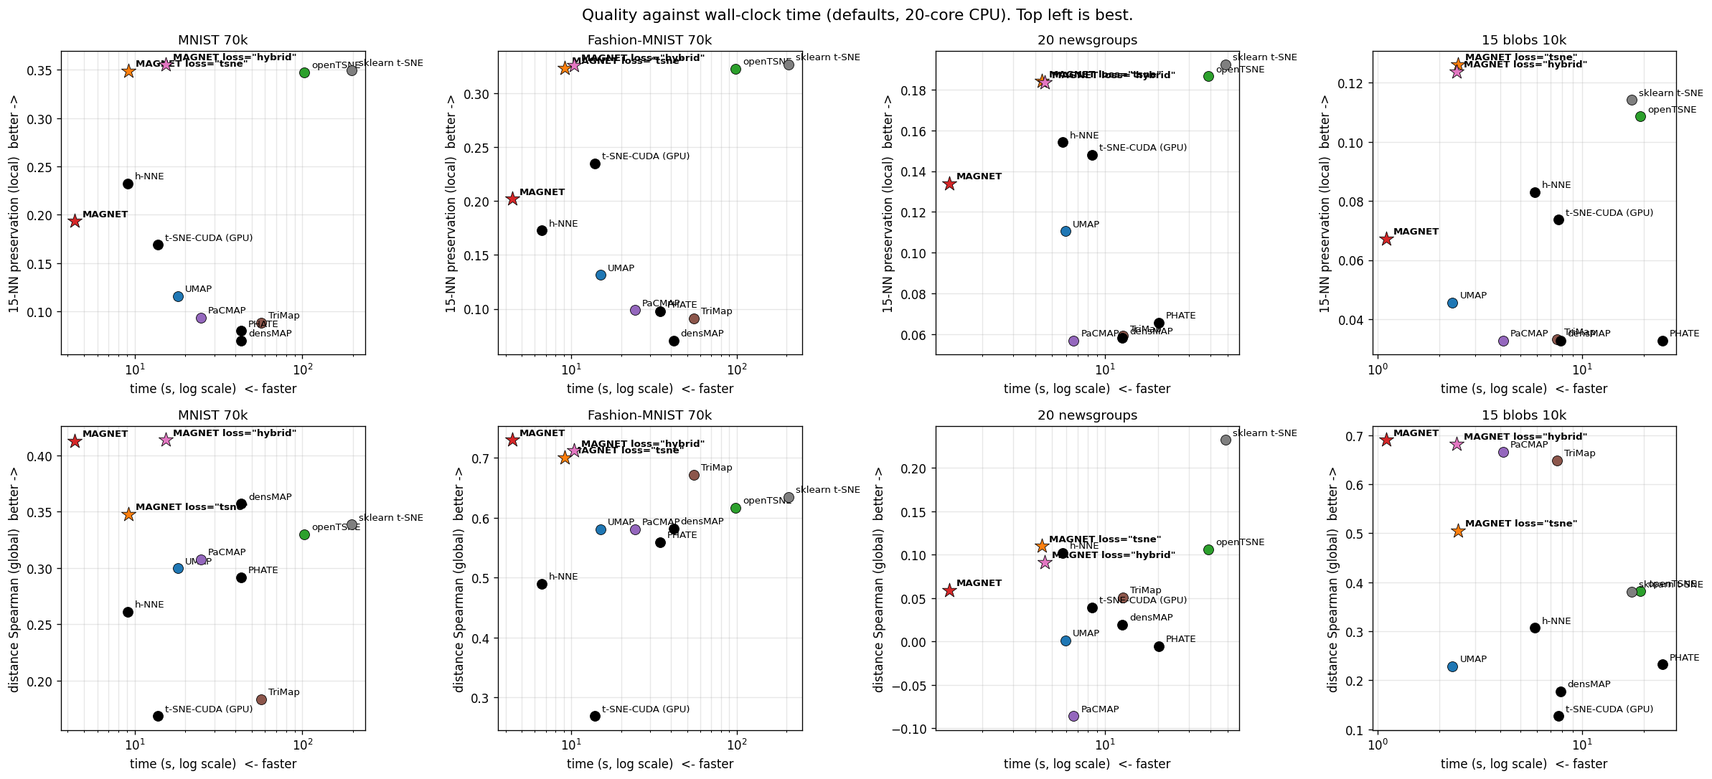
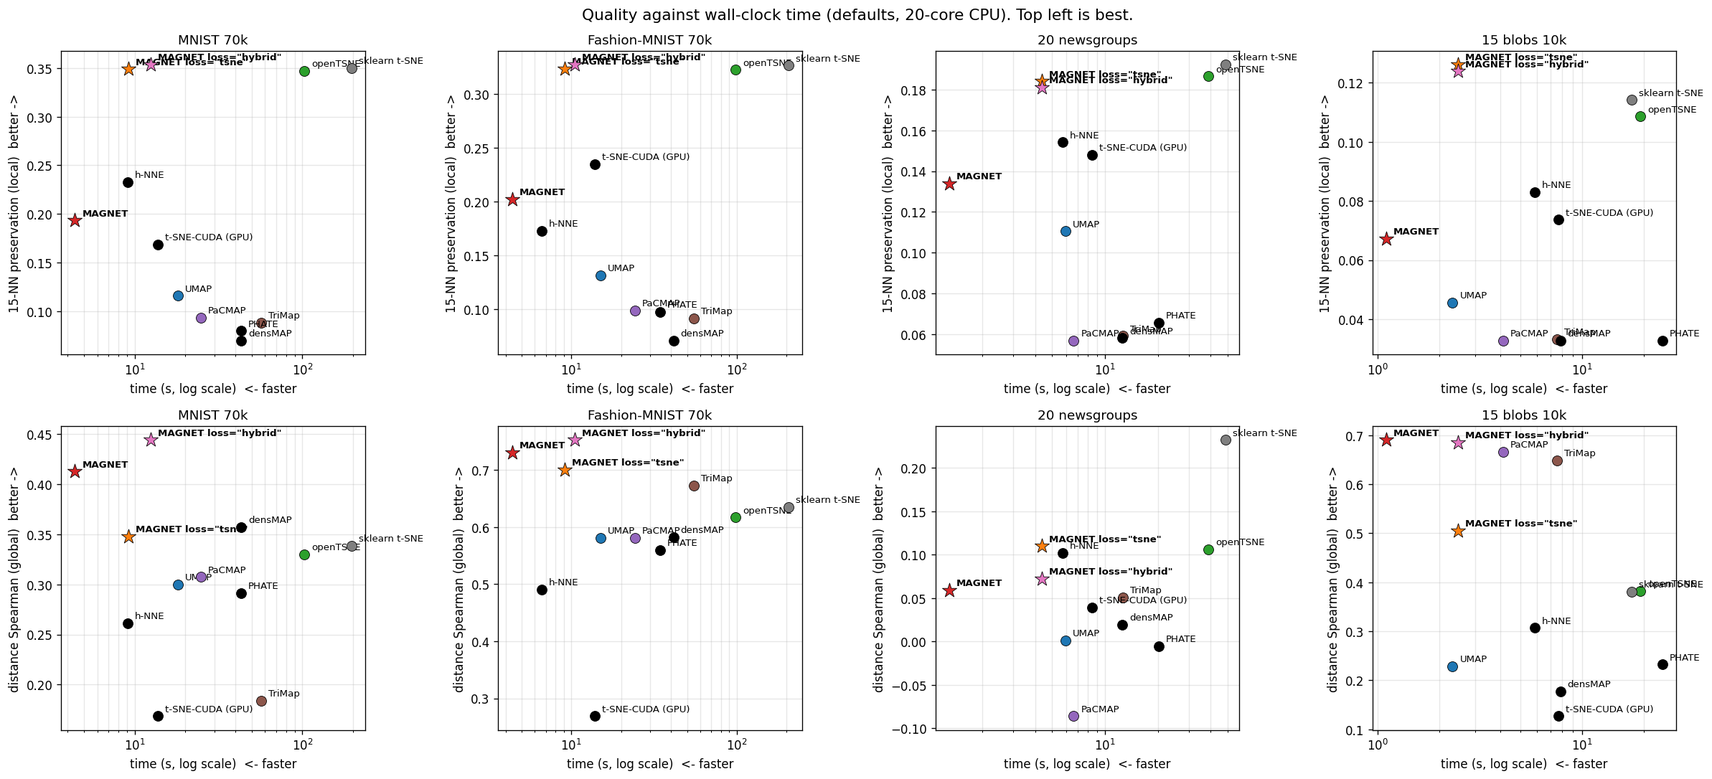
loss='hybrid': SGD pass tuned for the global structure (mid_weight 0.5 by default under hybrid; constructor default None resolved per mode, mid_weight_): MNIST 70k 15-NN 0.353 with Spearman 0.444 in 12.5 s, Fashion 0.328 / 0.752; exact-pass knobs within seed noise, shorter SGD pass negative (k8, k9)

diff --git a/magnet/__init__.py b/magnet/__init__.py
@@ -127,7 +127,10 @@ class MAGNET:
     walk_len, mid_weight, mid_rate, mid_phase : mid-range attraction. With probability mid_rate a
         positive sample (u, v) is followed by a random walk of walk_len steps from v, ending at w,
         and u is pulled towards w with a spring of stiffness mid_weight (annealed to zero over the
-        first mid_phase fraction of the epochs). Set mid_weight=0 to disable.
+        first mid_phase fraction of the epochs). Set mid_weight=0 to disable.  None (default) means 0.1,
+        or 0.5 under loss="hybrid": there the SGD pass only has to place the clusters, and the stiffer
+        spring buys +0.02 to +0.04 distance Spearman at unchanged 15-NN preservation. The value used
+        is stored in mid_weight_.
     mid_source : where the mid-range partners come from: "data" (PaCMAP-style mid-near pairs: the
         second closest of 6 random rows in the data space, n_mid_pairs per point; +30% distance
         correlation on MNIST for -3% 15-NN preservation), "walk" (short random walks on the graph)
@@ -170,7 +173,7 @@ class MAGNET:
                  n_epochs=None, learning_rate=1.0, negative_sample_rate=5, repulsion_strength=2.0,
                  kernel="power", kernel_b=0.6, repulsion_b=1.0, fft_interp=3, fft_box=1.0, tsne_early=None, loss="umap", exaggeration=1.0,
                  late_exaggeration=1.0, late_phase=0.2, tsne_dof=1.0, optimizer="sgd", clip="coord", beta1=0.9, beta2=0.999,
-                 walk_len=4, mid_weight=0.1, mid_rate=0.25, mid_phase=0.5, mid_scale="fixed", mid_source="auto",
+                 walk_len=4, mid_weight=None, mid_rate=0.25, mid_phase=0.5, mid_scale="fixed", mid_source="auto",
                  n_mid_pairs=5, mid_jump=0.5,
                  component_placement="centroid",
                  init="auto", pca=None, knn="nndescent", ef_construction=80, M=16, ef=None,
@@ -375,17 +378,22 @@ class MAGNET:
         Y = self._initial_embedding(P, data_matrix, rng)
 
         t = time.time()
+        # mid-range spring: 0.1 by default; 0.5 under loss="hybrid", whose SGD pass only has to place the
+        # clusters (the exact pass rewrites the local structure): +0.04 distance Spearman on MNIST, +0.03 on
+        # Fashion-MNIST, +0.02 on news20 and blobs at unchanged 15-NN preservation (benchmarks/theory/k8_mid_sweep.py)
+        mid_w = float(self.mid_weight) if self.mid_weight is not None else (0.5 if self.loss == "hybrid" else 0.1)
+        self.mid_weight_ = mid_w
         if self.loss == "umap_exact":
             if self.n_components != 2:
                 raise ValueError("loss='umap_exact' (FFT repulsion) is implemented for n_components=2 only")
             from .tsne import optimize_umap_exact
             n_iter = self.n_epochs if isinstance(self.n_epochs, (int, np.integer)) else 300
             pairs = getattr(self, "_mid_pairs_", None)
-            if self.mid_source in ("data", "auto") and hasattr(self, "_prepared_") and self.mid_weight > 0 and pairs is None:
+            if self.mid_source in ("data", "auto") and hasattr(self, "_prepared_") and mid_w > 0 and pairs is None:
                 from .roles import mid_near_pairs
                 pairs = mid_near_pairs(self._prepared_, self.n_mid_pairs, random_state=self.random_state or 0, n_threads=self.n_threads)
             Y = optimize_umap_exact(P, Y, self.a_, self.b_, n_iter=int(n_iter), rep_weight=float(self.repulsion_strength),
-                                    mid_pairs=pairs, mid_weight=float(self.mid_weight), mid_phase=float(self.mid_phase),
+                                    mid_pairs=pairs, mid_weight=float(mid_w), mid_phase=float(self.mid_phase),
                                     n_threads=self.n_threads, verbose=self.verbose)
             self.n_epochs_ = int(n_iter)
             head = np.zeros(0, dtype=np.int32)
@@ -400,14 +408,14 @@ class MAGNET:
                 Y = Y / max(float(Y[:, 0].std()), 1e-12) * float(self.tsne_init_scale)
             early = self.tsne_early if self.tsne_early is not None else min(250, int(n_iter) // 3)
             pairs = None
-            if self.mid_source in ("data", "auto") and hasattr(self, "_prepared_") and self.mid_weight > 0:
+            if self.mid_source in ("data", "auto") and hasattr(self, "_prepared_") and mid_w > 0:
                 from .roles import mid_near_pairs
                 pairs = mid_near_pairs(self._prepared_, self.n_mid_pairs, random_state=self.random_state or 0,
                                        n_threads=self.n_threads)
             Y = optimize_tsne(P, Y, n_iter=int(n_iter), early_iter=int(early),
                               exaggeration=float(self.exaggeration), learning_rate=self.tsne_learning_rate,
                               n_interp=int(self.fft_interp), box_width=float(self.fft_box),
-                              n_threads=self.n_threads, mid_pairs=pairs, mid_weight=3.0 * float(self.mid_weight),
+                              n_threads=self.n_threads, mid_pairs=pairs, mid_weight=3.0 * float(mid_w),
                               mid_phase=float(self.mid_phase), dof=float(self.tsne_dof), verbose=self.verbose,
                               far_weight=float(self.tsne_far[0]), far_r0=float(self.tsne_far[1]),
                               mid_form=str(self.tsne_mid[0]), mid_c=float(self.tsne_mid[1]))
@@ -418,13 +426,13 @@ class MAGNET:
             head, tail, epochs_per_sample = self._edge_schedule(P, n_epochs)
             self._mid_pairs_ = None
             self._jump_graph_ = None
-            if self.mid_source == "spectral" and self.mid_weight > 0:
+            if self.mid_source == "spectral" and mid_w > 0:
                 # graphs: mid-near pairs measured in a spectral (diffusion) embedding of the graph
                 from .roles import mid_near_pairs
                 S = spectral_init(P, 8, self.random_state, n_threads=self.n_threads)
                 self._mid_pairs_ = mid_near_pairs(np.ascontiguousarray(S, dtype=np.float32), self.n_mid_pairs,
                                                   random_state=self.random_state or 0, n_threads=self.n_threads)
-            if self.mid_source in ("data", "auto", "hybrid") and hasattr(self, "_prepared_") and self.mid_weight > 0:
+            if self.mid_source in ("data", "auto", "hybrid") and hasattr(self, "_prepared_") and mid_w > 0:
                 from .roles import mid_near_pairs
                 self._mid_pairs_ = mid_near_pairs(self._prepared_, self.n_mid_pairs, random_state=self.random_state or 0,
                                                   n_threads=self.n_threads)
@@ -435,7 +443,7 @@ class MAGNET:
                     J.sort_indices()
                     self._jump_graph_ = J
             self._optimize(Y, head, tail, epochs_per_sample, P, n_epochs, n_fixed=0, seed=seed,
-                           mid_weight=self.mid_weight)
+                           mid_weight=mid_w)
             if self.loss == "hybrid":
                 # second pass: the exact (FFT) repulsion refines the local structure of the SGD layout. The layout
                 # is first brought to the exact mode's own scale (31 x sqrt(n / 70000)): started from its natural

diff --git a/benchmarks/theory/k8_mid_sweep.py b/benchmarks/theory/k8_mid_sweep.py
@@ -1,0 +1,43 @@
+"""k8: parametrisation of loss="hybrid" on MNIST 70k. One SGD pass per setting (mid_weight, epochs, seed), then the
+exact pass with one knob moved at a time (scale, learning rate, iterations, dof, exaggeration). Usage:
+python benchmarks/theory/k8_mid_sweep.py OUT.jsonl [round]  (round 1: exact-pass knobs; 2: mid_weight x epochs x seed).
+Run from the repository root. Results in k8_mid_sweep.log."""
+import sys, os, time, json
+HERE = os.path.dirname(os.path.abspath(__file__)); B = os.path.dirname(HERE); sys.path.insert(0, os.path.dirname(B)); sys.path.insert(0, B)
+import numpy as np
+from datasets import LOADERS
+from metrics import evaluate
+from magnet import MAGNET
+from magnet.tsne import optimize_tsne
+
+data, labels, name = LOADERS["mnist"](70000)
+n = len(data)
+out = open(sys.argv[1], "a")
+
+def log(row):
+    print(json.dumps(row), flush=True); out.write(json.dumps(row) + "\n"); out.flush()
+
+def exact(P, Y0, scale=31.0, lr=None, iters=300, dof=1.0, exag=1.0):
+    Y = Y0.copy(); Y -= Y.mean(0); Y *= scale * np.sqrt(n / 70000.0) / Y[:, 0].std()
+    t = time.time()
+    Y = optimize_tsne(P, Y, n_iter=iters, early_iter=0, exaggeration=exag, learning_rate=lr, n_threads=-1, dof=dof)
+    return Y, time.time() - t
+
+ROUND = int(sys.argv[2]) if len(sys.argv) > 2 else 1
+sgd_cfgs = [("default", {}), ("mid0.3", {"mid_weight": 0.3}), ("mid1.0", {"mid_weight": 1.0}), ("mid0.3_e100", {"mid_weight": 0.3, "n_epochs": 100})]
+if ROUND == 2:
+    sgd_cfgs = [("mid1.0_e100", {"mid_weight": 1.0, "n_epochs": 100}), ("mid1.0_e150", {"mid_weight": 1.0, "n_epochs": 150}), ("mid0.5", {"mid_weight": 0.5}), ("mid2.0", {"mid_weight": 2.0}), ("mid1.0_seed1", {"mid_weight": 1.0, "random_state": 1}), ("default_seed1", {"random_state": 1})]
+variants = [("base", {}), ("s22", {"scale": 22.0}), ("s40", {"scale": 40.0}), ("lr/2", {"lr": n / 24}), ("lr*2", {"lr": n / 6}),
+            ("it450", {"iters": 450}), ("dof0.8", {"dof": 0.8}), ("exag1.2", {"exag": 1.2})]
+for sname, skw in sgd_cfgs:
+    t = time.time(); m = MAGNET(random_state=0, **skw); Y0 = m.fit_transform(data); t_sgd = time.time() - t
+    r = evaluate(data, Y0, labels, cache_key=name)
+    log(dict(sgd=sname, variant="sgd_only", t=round(t_sgd, 1), knn=round(r["knn15_preservation"], 3), trust=round(r["trustworthiness"], 3), sp=round(r["dist_spearman"], 3), tri=round(r["triplet_acc"], 3)))
+    if ROUND == 1:
+        vs = variants if sname in ("default", "mid1.0") else variants[:1] + variants[5:6]
+    else:
+        vs = variants[:1] + ([variants[2]] if "e1" in sname else [])
+    for vname, vkw in vs:
+        Y, t_ex = exact(m.graph_, Y0, **vkw)
+        r = evaluate(data, Y, labels, cache_key=name)
+        log(dict(sgd=sname, variant=vname, t=round(t_sgd + t_ex, 1), knn=round(r["knn15_preservation"], 3), trust=round(r["trustworthiness"], 3), sp=round(r["dist_spearman"], 3), tri=round(r["triplet_acc"], 3)))

diff --git a/benchmarks/theory/k9_mid_validate.py b/benchmarks/theory/k9_mid_validate.py
@@ -1,0 +1,17 @@
+"""k9: mid_weight of the SGD pass under loss="hybrid" on Fashion-MNIST 70k, 20 newsgroups and blobs (0.1 / 0.5 / 1.0).
+Usage: python benchmarks/theory/k9_mid_validate.py OUT.jsonl ; results in k9_mid_validate.log."""
+import sys, os, time, json
+HERE = os.path.dirname(os.path.abspath(__file__)); B = os.path.dirname(HERE); sys.path.insert(0, os.path.dirname(B)); sys.path.insert(0, B)
+import numpy as np
+from datasets import LOADERS
+from metrics import evaluate
+from magnet import MAGNET
+out = open(sys.argv[1], "a")
+for ds in ["fmnist", "news20", "blobs"]:
+    data, labels, name = LOADERS[ds](70000) if ds == "fmnist" else LOADERS[ds]()
+    for w in [0.1, 0.5, 1.0]:
+        kw = {"metric": "cosine"} if ds == "news20" else {}
+        t = time.time(); Y = MAGNET(loss="hybrid", mid_weight=w, random_state=0, **kw).fit_transform(data); dt = time.time() - t
+        r = evaluate(data, Y, labels, cache_key=name)
+        row = dict(ds=ds, mid=w, t=round(dt, 1), knn=round(r["knn15_preservation"], 3), trust=round(r["trustworthiness"], 3), sp=round(r["dist_spearman"], 3), tri=round(r["triplet_acc"], 3))
+        print(json.dumps(row), flush=True); out.write(json.dumps(row) + "\n"); out.flush()

diff --git a/tests/test_magnet.py b/tests/test_magnet.py
@@ -366,7 +366,10 @@ def test_hybrid_loss():
     M = MAGNET(loss="hybrid", hybrid_iter=60, random_state=0, n_threads=1).fit(X)
     Y = M.embedding_
     assert Y.shape == (3000, 2) and np.isfinite(Y).all()
-    Y_sgd = MAGNET(random_state=0, n_threads=1).fit_transform(X)
+    assert M.mid_weight_ == 0.5                       # the SGD pass of the hybrid is tuned for the global structure
+    M_sgd = MAGNET(random_state=0, n_threads=1).fit(X)
+    Y_sgd = M_sgd.embedding_
+    assert M_sgd.mid_weight_ == 0.1 and MAGNET(mid_weight=0.3).mid_weight == 0.3
     assert not np.allclose(Y, Y_sgd)
     rule = 31.0 * np.sqrt(3000 / 70000.0)             # the exact pass works at the exact mode's scale
     assert 0.5 * rule < Y[:, 0].std() < 2.0 * rule

diff --git a/README.md b/README.md
@@ -55,12 +55,14 @@ Hamprecht 2021). MAGNET exposes this directly:
 |---|---|---|---|
 | `loss="umap"` | sampled (5 random points per positive sample) | UMAP-like, with the global structure of PaCMAP | speed, 3-D, graphs, millions of points |
 | `loss="tsne"` | exact, all pairs, FFT-accelerated (2-D) | t-SNE-like, finest local structure | best neighbourhood preservation |
-| `loss="hybrid"` | sampled, then exact for 300 iterations at the exact mode's scale | the global structure of the first with the local structure of the second | the best 2-D layout MAGNET makes (MNIST 70k: 15-NN kept 0.355, distance Spearman 0.414, 15 s) |
+| `loss="hybrid"` | sampled, then exact for 300 iterations at the exact mode's scale | the global structure of the first with the local structure of the second | the best 2-D layout MAGNET makes (MNIST 70k: 15-NN kept 0.353, distance Spearman 0.444, 12.5 s) |
 | `loss="tsne", exaggeration=4` | exact | UMAP-like again | the two regimes really are one spectrum |
 
 `repulsion_strength` (default 2) and `exaggeration` move along the spectrum within each mode, and
 `mid_weight` trades local for global structure within the SGD mode (MNIST 70k, 0 / 0.1 / 0.3 / 1.0:
-15-NN kept 0.206 / 0.193 / 0.187 / 0.168, distance Spearman 0.285 / 0.413 / 0.427 / 0.478). The two
+15-NN kept 0.206 / 0.193 / 0.187 / 0.168, distance Spearman 0.285 / 0.413 / 0.427 / 0.478). Under
+`loss="hybrid"` the SGD pass only has to place the clusters, so it runs at `mid_weight=0.5`: its
+local cost is erased by the exact pass, its global gain is kept (+0.03 to +0.04 Spearman). The two
 modes' strengths do not blend inside one loss (a constant far-field repulsion, a bounded mid-range
 term or a longer schedule in the exact mode each cost local structure before buying any global, and
 the exaggeration knob trades local for compactness, not for global; `docs/kernel_exponents.md`,
@@ -214,7 +216,7 @@ sits below the CPU t-SNEs on neighbourhood preservation.
 | MAGNET, `repulsion_b=None` (coupled kernel, UMAP's compact look: silhouette 0.51 against 0.52 for UMAP and 0.40 for the default) | 5.5 s | 0.190 | 0.958 | 0.405 | 0.641 | 0.966 |
 | MAGNET, `late_exaggeration=1.5` (compact preset, silhouette 0.51) | 4.7 s | 0.181 | 0.956 | 0.386 | 0.637 | 0.967 |
 | **MAGNET `loss="tsne"`** | 9.2 s | 0.349 | 0.966 | 0.348 | 0.627 | 0.966 |
-| **MAGNET `loss="hybrid"`** | 15.3 s | **0.355** | 0.962 | **0.414** | **0.645** | 0.965 |
+| **MAGNET `loss="hybrid"`** | 12.5 s | **0.353** | 0.961 | **0.444** | **0.656** | 0.960 |
 | UMAP 0.5.11 | 18.2 s | 0.116 | 0.951 | 0.300 | 0.607 | 0.967 |
 | densMAP (umap-learn 0.5.11) | 43.2 s | 0.070 | 0.923 | 0.357 | 0.621 | 0.956 |
 | openTSNE 1.0.4 | 102.5 s | 0.347 | **0.968** | 0.330 | 0.619 | 0.965 |
@@ -226,10 +228,14 @@ sits below the CPU t-SNEs on neighbourhood preservation.
 | t-SNE-CUDA 3.0.1 (GPU) | 13.8 s | 0.169 | 0.967 | 0.169 | 0.567 | 0.957 |
 
 `loss="hybrid"` is the first row of this table to lead both the local and the global columns at once:
-15-NN kept equal to the best t-SNE (0.355 against 0.350), distance correlation equal to the SGD mode
-(0.414 against 0.413), 13 times faster than scikit-learn's t-SNE. Fashion-MNIST: 0.326 / 0.712
-(t-SNE 0.327 / 0.634, SGD 0.202 / 0.730); 20 newsgroups 0.183 / 0.092 (t-SNE 0.192 / 0.232, which
-keeps the global lead there); blobs 0.124 / 0.682 (t-SNE 0.114 / 0.381, SGD 0.067 / 0.690).
+15-NN kept equal to the best t-SNE (0.353 against 0.350), distance correlation above the SGD mode
+(0.444 against 0.413), 16 times faster than scikit-learn's t-SNE. Fashion-MNIST: 0.328 / 0.752
+(t-SNE 0.327 / 0.634, SGD 0.202 / 0.730); 20 newsgroups 0.181 / 0.073 (t-SNE 0.192 / 0.232, which
+keeps the global lead there; the global column of that set moves by 0.02 between seeds); blobs
+0.124 / 0.684 (t-SNE 0.114 / 0.381, SGD 0.067 / 0.690). The exact pass refines the SGD layout, it
+does not repair one: the SGD pass must run its full schedule (100 epochs: 15-NN 0.276), and the knobs
+of the exact pass (scale, learning rate, iterations, dof, exaggeration) move the result by at most
+the seed noise (`docs/kernel_exponents.md`, section 6.1).
 h-NNE is the one fast method that beats the default MAGNET on neighbourhood preservation (0.233
 against 0.193 on MNIST, 0.154 against 0.134 on 20 newsgroups, the other way round on Fashion-MNIST,
 0.173 against 0.202); it pays for it on every other column (trustworthiness 0.940, distance
@@ -288,7 +294,7 @@ Any networkx graph or sparse adjacency matrix is laid out directly, in linear ti
 | `samples_per_node` | 5 | attractive samples per node and per epoch |
 | `negative_sample_rate` | 5 | negatives per positive sample |
 | `mid_source`, `n_mid_pairs`, `mid_jump` | `"auto"`, 5, 0.5 | mid-range partners from the data (PaCMAP-style pairs), from random walks on the graph, or `"hybrid"` walks on both layers |
-| `walk_len`, `mid_weight`, `mid_rate`, `mid_phase` | 4, 0.1, 0.25, 0.5 | strength and schedule of the mid-range attraction (`mid_weight=0` disables) |
+| `walk_len`, `mid_weight`, `mid_rate`, `mid_phase` | 4, None (0.1; 0.5 under `loss="hybrid"`), 0.25, 0.5 | strength and schedule of the mid-range attraction (`mid_weight=0` disables) |
 | `init` | `"auto"` | PCA for `loss="tsne"` on data, spectral otherwise; or `"spectral"`, `"pca"`, `"random"`, an array |
 | `knn` | `"nndescent"` | or `"hnsw"` (needs hnswlib) |
 | `pca` | None | project wide data to this many components before the neighbour search |

diff --git a/docs/kernel_exponents.md b/docs/kernel_exponents.md
@@ -256,6 +256,39 @@ The fade the question asked for exists, then, but across scales of the optimiser
 the loss: the sampled pass owns the far field, the exact pass owns the near field, and the hand-over
 is the init at the right scale.
 
+### 6.1 Parametrisation of the hybrid (`k8_mid_sweep.py`, `k9_mid_validate.py`)
+
+Since the exact pass rewrites the local structure, the SGD pass no longer has to protect it: it can
+be tuned for the global arrangement alone. MNIST 70k, seed 0, exact pass at scale 31, lr n/12,
+300 iterations (seed noise, measured on two seeds: 0.003 on both columns):
+
+| SGD pass | SGD alone, 15-NN / Spearman | after the exact pass, 15-NN / Spearman | time |
+|---|---|---|---|
+| `mid_weight=0.1` (SGD default) | 0.193 / 0.413 | 0.356 / 0.410 | 11.0 s |
+| `mid_weight=0.3` | 0.187 / 0.430 | 0.354 / 0.423 | 11.6 s |
+| `mid_weight=0.5` | 0.176 / 0.455 | 0.355 / 0.449 | 12.3 s |
+| `mid_weight=1.0` | 0.171 / 0.474 | 0.351 / 0.452 | 10.8 s |
+| `mid_weight=2.0` | 0.154 / 0.487 | 0.350 / 0.453 | 10.7 s |
+| `mid_weight=1.0`, 150 epochs | 0.127 / 0.464 | 0.336 / 0.445 | 11.9 s |
+| `mid_weight=1.0`, 100 epochs | 0.066 / 0.399 | 0.276 / 0.401 | 11.0 s |
+
+The local cost of the stiffer spring (15-NN 0.193 down to 0.154) is erased by the exact pass, its
+global gain (+0.04) is kept. Saturation at 0.5-1.0. A shorter SGD pass does not work: the exact pass
+refines a layout, it does not repair one (100 epochs: 15-NN 0.276, trustworthiness 0.71), so the time
+of the hybrid stays SGD plus exact. On the other data sets (`k9`, hybrid at `mid_weight` 0.1 / 0.5 /
+1.0): Fashion-MNIST 15-NN 0.328 / 0.328 / 0.331, Spearman 0.716 / 0.750 / 0.770; 20 newsgroups
+0.183 / 0.182 / 0.180, 0.073 / 0.094 / 0.095; blobs 0.123 / 0.124 / 0.124, 0.696 / 0.713 / 0.673.
+0.5 is never below 0.1 on any column of any data set, 1.0 loses 0.04 on the blobs: the hybrid's
+default is `mid_weight=0.5` (the SGD mode keeps 0.1; the constructor default is None, resolved per
+mode, the value used is in `mid_weight_`).
+
+The knobs of the exact pass move the result by at most the seed noise, or hurt (`mid_weight=1.0`
+SGD pass; 15-NN / Spearman / time): scale 22: 0.344 / 0.443 / 8.9 s; scale 40: 0.356 / 0.459 /
+16.2 s; lr n/24: 0.346 / 0.458; lr n/6: 0.356 / 0.446; 450 iterations: 0.357 / 0.443 / 17.0 s;
+dof 0.8: 0.343 / 0.447; exaggeration 1.2: 0.343 / 0.448. Scale 40 and 450 iterations buy 0.005 of
+15-NN for 5-6 s; dof below 1 and late exaggeration cost local structure, as in the exact mode alone.
+The hybrid has one knob worth turning, and it is in the SGD pass.
+
 ## Scripts (`benchmarks/theory/`)
 
 `e1_force_spectrum.py` (per-octave repulsive force on MAGNET's own embeddings), `e1b_powerlaw.py`
@@ -263,7 +296,7 @@ is the init at the right scale.
 data set), `e3_huber.py` (needs the research build with the Huber kernel; the C++ and Python patch is
 described in the script's docstring), `e4_oracle_local.py`, `e5_law.py`, `e6_estimator.py`,
 `e7_embedding_estimator.py` (two-phase version, superseded), `g1_gate.py` (crowding distribution on
-real data), `g2_adaptive.py`, `g3_mindeg.py`, `h1_hubs.py`, `h2_degree.py` (the text question), `k1_hybrid.py` to `k7_hybrid_general.py` and `run_hybrid_rows.py` (section 6); the `.log` files are the runs quoted here (4 threads, 2-3
+real data), `g2_adaptive.py`, `g3_mindeg.py`, `h1_hubs.py`, `h2_degree.py` (the text question), `k1_hybrid.py` to `k7_hybrid_general.py`, `k8_mid_sweep.py` (parametrisation of the hybrid on MNIST: mid_weight, SGD epochs, seed; exact-pass scale, lr, iterations, dof, exaggeration), `k9_mid_validate.py` (mid_weight of the hybrid on Fashion-MNIST, 20 newsgroups, blobs) and `run_hybrid_rows.py` (section 6); the `.log` files are the runs quoted here (4 threads, 2-3
 seeds). The e3 / e4 / e6 / e7 scripts take the package directory and the repository as arguments; g1 and
 g2 take the repository and a data directory holding `coil20/coil-20-proc/*.png` (Columbia CAVE) and
 `paul15/paul15.h5` (falexwolf.de/data); Cora and the airport graphs are read from local copies.

diff --git a/benchmarks/BENCHMARK.md b/benchmarks/BENCHMARK.md
@@ -10,7 +10,7 @@ Local structure: 15-NN preservation (fraction of each point's 15 nearest neighbo
 |---|---|---|---|---|---|---|---|
 | MAGNET (SGD, default) | **4.4** | 0.193 | 0.957 | 0.413 | 0.644 | 0.967 | 0.397 |
 | MAGNET (loss="tsne") | 9.2 | 0.349 | 0.966 | 0.348 | 0.627 | 0.966 | 0.347 |
-| MAGNET (loss="hybrid") | 15.3 | **0.355** | 0.962 | **0.414** | **0.645** | 0.965 | 0.329 |
+| MAGNET (loss="hybrid") | 12.5 | **0.353** | 0.961 | **0.444** | **0.656** | 0.960 | 0.203 |
 | UMAP 0.5.11 | 18.2 | 0.116 | 0.951 | 0.300 | 0.607 | 0.967 | 0.520 |
 | densMAP (umap-learn 0.5.11) | 43.2 | 0.070 | 0.923 | 0.357 | 0.621 | 0.956 | 0.438 |
 | openTSNE 1.0.4 | 102.5 | 0.347 | 0.968 | 0.330 | 0.619 | 0.965 | 0.347 |
@@ -25,9 +25,9 @@ Local structure: 15-NN preservation (fraction of each point's 15 nearest neighbo
 
 | method | time (s) | 15-NN pres. | trust. | dist. Spearman | triplet acc. | 10-NN acc. | compactness* |
 |---|---|---|---|---|---|---|---|
-| MAGNET (SGD, default) | **4.4** | 0.202 | 0.980 | **0.730** | **0.787** | 0.800 | 0.141 |
+| MAGNET (SGD, default) | **4.4** | 0.202 | 0.980 | 0.730 | 0.787 | 0.800 | 0.141 |
 | MAGNET (loss="tsne") | 9.1 | 0.324 | 0.981 | 0.700 | 0.775 | 0.815 | 0.101 |
-| MAGNET (loss="hybrid") | 10.3 | 0.326 | 0.981 | 0.712 | 0.778 | 0.815 | 0.116 |
+| MAGNET (loss="hybrid") | 10.5 | **0.328** | 0.979 | **0.752** | **0.799** | 0.814 | 0.106 |
 | UMAP 0.5.11 | 15.0 | 0.131 | 0.972 | 0.581 | 0.730 | 0.772 | 0.195 |
 | densMAP (umap-learn 0.5.11) | 41.4 | 0.070 | 0.954 | 0.582 | 0.729 | 0.756 | 0.193 |
 | openTSNE 1.0.4 | 98.2 | 0.323 | **0.983** | 0.617 | 0.732 | 0.817 | 0.120 |
@@ -35,7 +35,7 @@ Local structure: 15-NN preservation (fraction of each point's 15 nearest neighbo
 | TriMap | 55.0 | 0.091 | 0.965 | 0.672 | 0.772 | 0.750 | 0.177 |
 | PHATE 2.0 | 34.3 | 0.097 | 0.924 | 0.560 | 0.726 | 0.721 | 0.129 |
 | h-NNE | 6.6 | 0.173 | 0.912 | 0.490 | 0.698 | 0.805 | 0.129 |
-| sklearn t-SNE (Barnes-Hut) | 204.8 | **0.327** | 0.983 | 0.634 | 0.740 | **0.818** | 0.126 |
+| sklearn t-SNE (Barnes-Hut) | 204.8 | 0.327 | 0.983 | 0.634 | 0.740 | **0.818** | 0.126 |
 | t-SNE-CUDA 3.0.1 (GPU, RTX 2070) | 13.9 | 0.235 | 0.975 | 0.269 | 0.614 | 0.811 | 0.004 |
 
 ## 20 newsgroups (18.8k x 300 SVD, cosine), 2 seeds
@@ -44,7 +44,7 @@ Local structure: 15-NN preservation (fraction of each point's 15 nearest neighbo
 |---|---|---|---|---|---|---|---|
 | MAGNET (SGD, default) | **1.3** | 0.134 | 0.760 | 0.059 | 0.529 | 0.508 | -0.111 |
 | MAGNET (loss="tsne") | 4.4 | 0.184 | **0.776** | 0.110 | 0.541 | 0.526 | -0.090 |
-| MAGNET (loss="hybrid") | 4.5 | 0.183 | 0.774 | 0.092 | 0.535 | 0.520 | -0.100 |
+| MAGNET (loss="hybrid") | 4.4 | 0.181 | 0.768 | 0.073 | 0.528 | 0.515 | -0.147 |
 | UMAP 0.5.11 | 5.9 | 0.111 | 0.739 | 0.001 | 0.521 | 0.512 | -0.096 |
 | densMAP (umap-learn 0.5.11) | 12.5 | 0.058 | 0.643 | 0.020 | 0.525 | 0.426 | -0.108 |
 | openTSNE 1.0.4 | 38.8 | 0.187 | 0.772 | 0.106 | 0.542 | **0.535** | **-0.086** |
@@ -61,7 +61,7 @@ Local structure: 15-NN preservation (fraction of each point's 15 nearest neighbo
 |---|---|---|---|---|---|---|---|
 | MAGNET (SGD, default) | **1.1** | 0.067 | 0.972 | **0.690** | **0.732** |  |  |
 | MAGNET (loss="tsne") | 2.5 | **0.126** | 0.974 | 0.505 | 0.678 |  |  |
-| MAGNET (loss="hybrid") | 2.4 | 0.124 | 0.974 | 0.682 | 0.730 |  |  |
+| MAGNET (loss="hybrid") | 2.5 | 0.124 | 0.974 | 0.684 | 0.730 |  |  |
 | UMAP 0.5.11 | 2.3 | 0.045 | 0.971 | 0.229 | 0.578 |  |  |
 | densMAP (umap-learn 0.5.11) | 7.8 | 0.033 | 0.969 | 0.178 | 0.564 |  |  |
 | openTSNE 1.0.4 | 19.4 | 0.109 | 0.975 | 0.382 | 0.646 |  |  |
